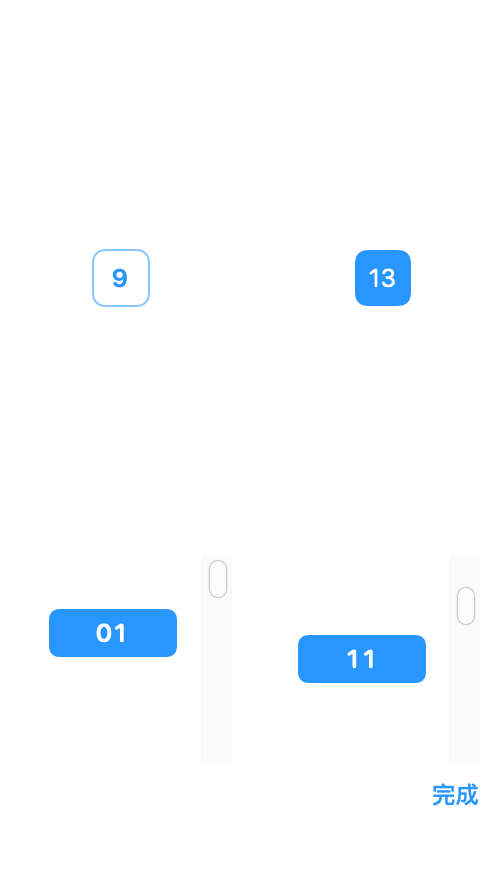
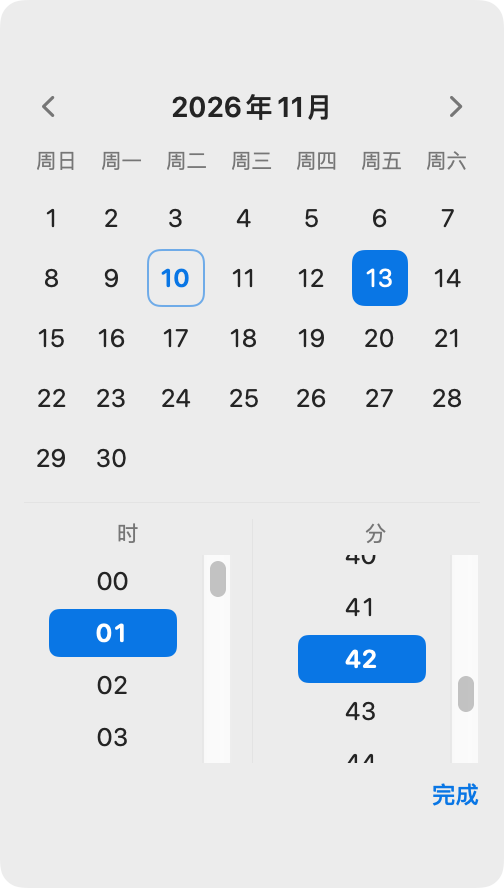
Fix marketing capture appearance handling and date-picker rendering
The capture harness failed to restore the pre-capture appearance value,
so the light-mode panel screenshot was never produced (panel and
panel-dark were identical). Original value is now snapshotted before any
change and restored exactly. The date grid switched to an eager Grid so
all day cells render offscreen; the picker capture gained a window
background. Docs images and marketing cards re-rendered.

diff --git a/Sources/LiteCount/DateTimePickers.swift b/Sources/LiteCount/DateTimePickers.swift
@@ -204,52 +204,63 @@ struct DateTimePickerPopoverView: View {
     }
 
     private var dayGrid: some View {
-        let daysInMonth = calendar.range(of: .day, in: .month, for: displayedMonth)?.count ?? 0
-        let firstWeekdayIndex = (Int(calendar.component(.weekday, from: displayedMonth.startOfMonth)) - calendar.firstWeekday + 7) % 7
-        let today = calendar.startOfDay(for: Date.now)
-        let selectedDay = calendar.startOfDay(for: date)
-
-        return LazyVGrid(
-            columns: Array(repeating: GridItem(.flexible(), spacing: 2), count: 7),
-            spacing: 2
-        ) {
-            ForEach(0..<(firstWeekdayIndex + daysInMonth), id: \.self) { index in
-                if index < firstWeekdayIndex {
-                    Color.clear.frame(height: 28)
-                } else {
-                    let dayNumber = index - firstWeekdayIndex + 1
-                    let dayDate = calendar.date(byAdding: .day, value: dayNumber - 1, to: displayedMonth.startOfMonth) ?? displayedMonth
-                    let isSelected = calendar.isDate(dayDate, inSameDayAs: selectedDay)
-                    let isToday = calendar.isDate(dayDate, inSameDayAs: today)
-
-                    Button {
-                        let timeComponents = calendar.dateComponents([.hour, .minute], from: date)
-                        var dayComponents = calendar.dateComponents([.year, .month, .day], from: dayDate)
-                        dayComponents.hour = timeComponents.hour
-                        dayComponents.minute = timeComponents.minute
-                        date = calendar.date(from: dayComponents) ?? dayDate
-                    } label: {
-                        Text("\(dayNumber)")
-                            .font(.system(size: 12.5, weight: isToday ? .semibold : .regular, design: .rounded))
-                            .foregroundStyle(isSelected ? .white : (isToday ? Color.liteCountBlue : Color.primary))
-                            .frame(width: 28, height: 28)
-                            .background(
-                                isSelected
-                                    ? Color.liteCountBlue
-                                    : Color.liteCountSeparator.opacity(0.001),
-                                in: RoundedRectangle(cornerRadius: 6, style: .continuous)
-                            )
-                            .overlay {
-                                if isToday && !isSelected {
-                                    RoundedRectangle(cornerRadius: 6, style: .continuous)
-                                        .stroke(Color.liteCountBlue.opacity(0.55), lineWidth: 1)
-                                }
-                            }
+        // Eager Grid (not LazyVGrid) so every day cell renders reliably, including offscreen capture.
+        Grid(alignment: .center, horizontalSpacing: 2, verticalSpacing: 2) {
+            ForEach(dayCellRows, id: \.self) { row in
+                GridRow {
+                    ForEach(Array(row.enumerated()), id: \.offset) { _, cell in
+                        if let dayNumber = cell {
+                            dayButton(dayNumber)
+                        } else {
+                            Color.clear.frame(height: 28)
+                        }
                     }
-                    .buttonStyle(.plain)
                 }
             }
         }
+    }
+
+    private var dayCellRows: [[Int?]] {
+        let daysInMonth = calendar.range(of: .day, in: .month, for: displayedMonth)?.count ?? 0
+        let firstWeekdayIndex = (Int(calendar.component(.weekday, from: displayedMonth.startOfMonth)) - calendar.firstWeekday + 7) % 7
+        var cells: [Int?] = Array(repeating: nil, count: firstWeekdayIndex)
+        cells.append(contentsOf: (1...daysInMonth).map { Optional($0) })
+        while cells.count % 7 != 0 { cells.append(nil) }
+        return stride(from: 0, to: cells.count, by: 7).map { start in
+            Array(cells[start..<min(start + 7, cells.count)])
+        }
+    }
+
+    private func dayButton(_ dayNumber: Int) -> some View {
+        let dayDate = calendar.date(byAdding: .day, value: dayNumber - 1, to: displayedMonth.startOfMonth) ?? displayedMonth
+        let isSelected = calendar.isDate(dayDate, inSameDayAs: calendar.startOfDay(for: date))
+        let isToday = calendar.isDate(dayDate, inSameDayAs: calendar.startOfDay(for: Date.now))
+
+        return Button {
+            let timeComponents = calendar.dateComponents([.hour, .minute], from: date)
+            var dayComponents = calendar.dateComponents([.year, .month, .day], from: dayDate)
+            dayComponents.hour = timeComponents.hour
+            dayComponents.minute = timeComponents.minute
+            date = calendar.date(from: dayComponents) ?? dayDate
+        } label: {
+            Text("\(dayNumber)")
+                .font(.system(size: 12.5, weight: isToday ? .semibold : .regular, design: .rounded))
+                .foregroundStyle(isSelected ? .white : (isToday ? Color.liteCountBlue : Color.primary))
+                .frame(width: 28, height: 28)
+                .background(
+                    isSelected
+                        ? Color.liteCountBlue
+                        : Color.liteCountSeparator.opacity(0.001),
+                    in: RoundedRectangle(cornerRadius: 6, style: .continuous)
+                )
+                .overlay {
+                    if isToday && !isSelected {
+                        RoundedRectangle(cornerRadius: 6, style: .continuous)
+                            .stroke(Color.liteCountBlue.opacity(0.55), lineWidth: 1)
+                    }
+                }
+        }
+        .buttonStyle(.plain)
     }
 
     private func timeColumn(header: String, range: Range<Int>, selected: Int, onSelect: @escaping (Int) -> Void) -> some View {

diff --git a/Sources/LiteCount/MarketingCapture.swift b/Sources/LiteCount/MarketingCapture.swift
@@ -24,6 +24,7 @@ final class CaptureDelegate: NSObject, NSApplicationDelegate {
     private var output = URL(fileURLWithPath: "marketing/captures")
     private var editorWindow: NSWindow?
     private var pickerWindow: NSWindow?
+    private var originalAppearance: String?
     private var steps: [(delay: TimeInterval, action: () -> Void)] = []
     private var stepIndex = 0
 
@@ -32,6 +33,9 @@ final class CaptureDelegate: NSObject, NSApplicationDelegate {
         output = URL(fileURLWithPath: env["LITECOUNT_CAPTURE_DIR"] ?? "marketing/captures", isDirectory: true)
         try? FileManager.default.createDirectory(at: output, withIntermediateDirectories: true)
         let isolatedDefaults = UserDefaults(suiteName: "app.litecount.marketing")!
+
+        // Remember the pre-capture appearance so it can be restored exactly.
+        originalAppearance = UserDefaults.standard.string(forKey: "appAppearance")
 
         store = CountdownStore(fileURL: output.appendingPathComponent("isolated-data/items.json"))
         store.deleteAllForCapture()
@@ -42,18 +46,11 @@ final class CaptureDelegate: NSObject, NSApplicationDelegate {
         controller.openPinned()
 
         steps = [
-            (delay: 1.4, action: { self.captureView(self.controller.listPanel.contentView, "panel-list.png") }),
+            // Force light for the base captures so results are deterministic.
+            (delay: 0.3, action: { UserDefaults.standard.set("light", forKey: "appAppearance") }),
+            (delay: 0.9, action: { self.captureView(self.controller.listPanel.contentView, "panel-list.png") }),
             (delay: 0.3, action: { self.captureView(self.controller.triggerPanel.contentView, "trigger.png") }),
-            (delay: 0.3, action: { UserDefaults.standard.set("dark", forKey: "appAppearance") }),
-            (delay: 0.9, action: { self.captureView(self.controller.listPanel.contentView, "panel-list-dark.png") }),
-            (delay: 0.3, action: {
-                if let previous = UserDefaults.standard.object(forKey: "appAppearance") {
-                    UserDefaults.standard.set(previous, forKey: "appAppearance")
-                } else {
-                    UserDefaults.standard.removeObject(forKey: "appAppearance")
-                }
-                self.openEditorWindow()
-            }),
+            (delay: 0.3, action: { self.openEditorWindow() }),
             (delay: 1.0, action: {
                 self.captureView(self.editorWindow?.contentView, "editor.png")
                 self.editorWindow?.orderOut(nil)
@@ -63,7 +60,15 @@ final class CaptureDelegate: NSObject, NSApplicationDelegate {
                 self.captureView(self.pickerWindow?.contentView, "date-picker.png")
                 self.pickerWindow?.orderOut(nil)
             }),
+            (delay: 0.3, action: { UserDefaults.standard.set("dark", forKey: "appAppearance") }),
+            (delay: 0.9, action: { self.captureView(self.controller.listPanel.contentView, "panel-list-dark.png") }),
             (delay: 0.3, action: {
+                // Restore the exact pre-capture value, including "was unset".
+                if let original = self.originalAppearance {
+                    UserDefaults.standard.set(original, forKey: "appAppearance")
+                } else {
+                    UserDefaults.standard.removeObject(forKey: "appAppearance")
+                }
                 print("MARKETING_CAPTURE_DONE")
                 NSApplication.shared.terminate(nil)
             })
@@ -138,7 +143,12 @@ final class CaptureDelegate: NSObject, NSApplicationDelegate {
         window.backgroundColor = .clear
         window.isOpaque = false
         let picker = DateTimePickerPopoverView(date: .constant(Date.now.addingTimeInterval(3 * 86400 + 5400).roundedToMinute))
-        window.contentView = NSHostingView(rootView: picker)
+        let content = picker.background(
+            RoundedRectangle(cornerRadius: 12, style: .continuous)
+                .fill(Color(nsColor: .windowBackgroundColor))
+        )
+        .clipShape(RoundedRectangle(cornerRadius: 12, style: .continuous))
+        window.contentView = NSHostingView(rootView: content)
         window.center()
         window.orderFrontRegardless()
         pickerWindow = window

diff --git a/README.md b/README.md
@@ -29,10 +29,11 @@ LiteCount is a native macOS countdown tool. Set a name and a target time, and it
 
 ## 截图 / Screenshots
 
-| | |
+| 浅色面板 / Light | 编辑器 / Editor |
 |---|---|
-| ![面板 / Panel](docs/images/panel.png) | ![深色 / Dark](docs/images/panel-dark.png) |
-| ![编辑器 / Editor](docs/images/editor.png) | ![选择器 / Picker](docs/images/date-picker.png) |
+| ![浅色面板 / Light panel](docs/images/panel.png) | ![编辑器 / Editor](docs/images/editor.png) |
+| **深色面板 / Dark** | **时间选择器 / Picker** |
+| ![深色面板 / Dark panel](docs/images/panel-dark.png) | ![选择器 / Picker](docs/images/date-picker.png) |
 
 ## 安装 / Install
 
